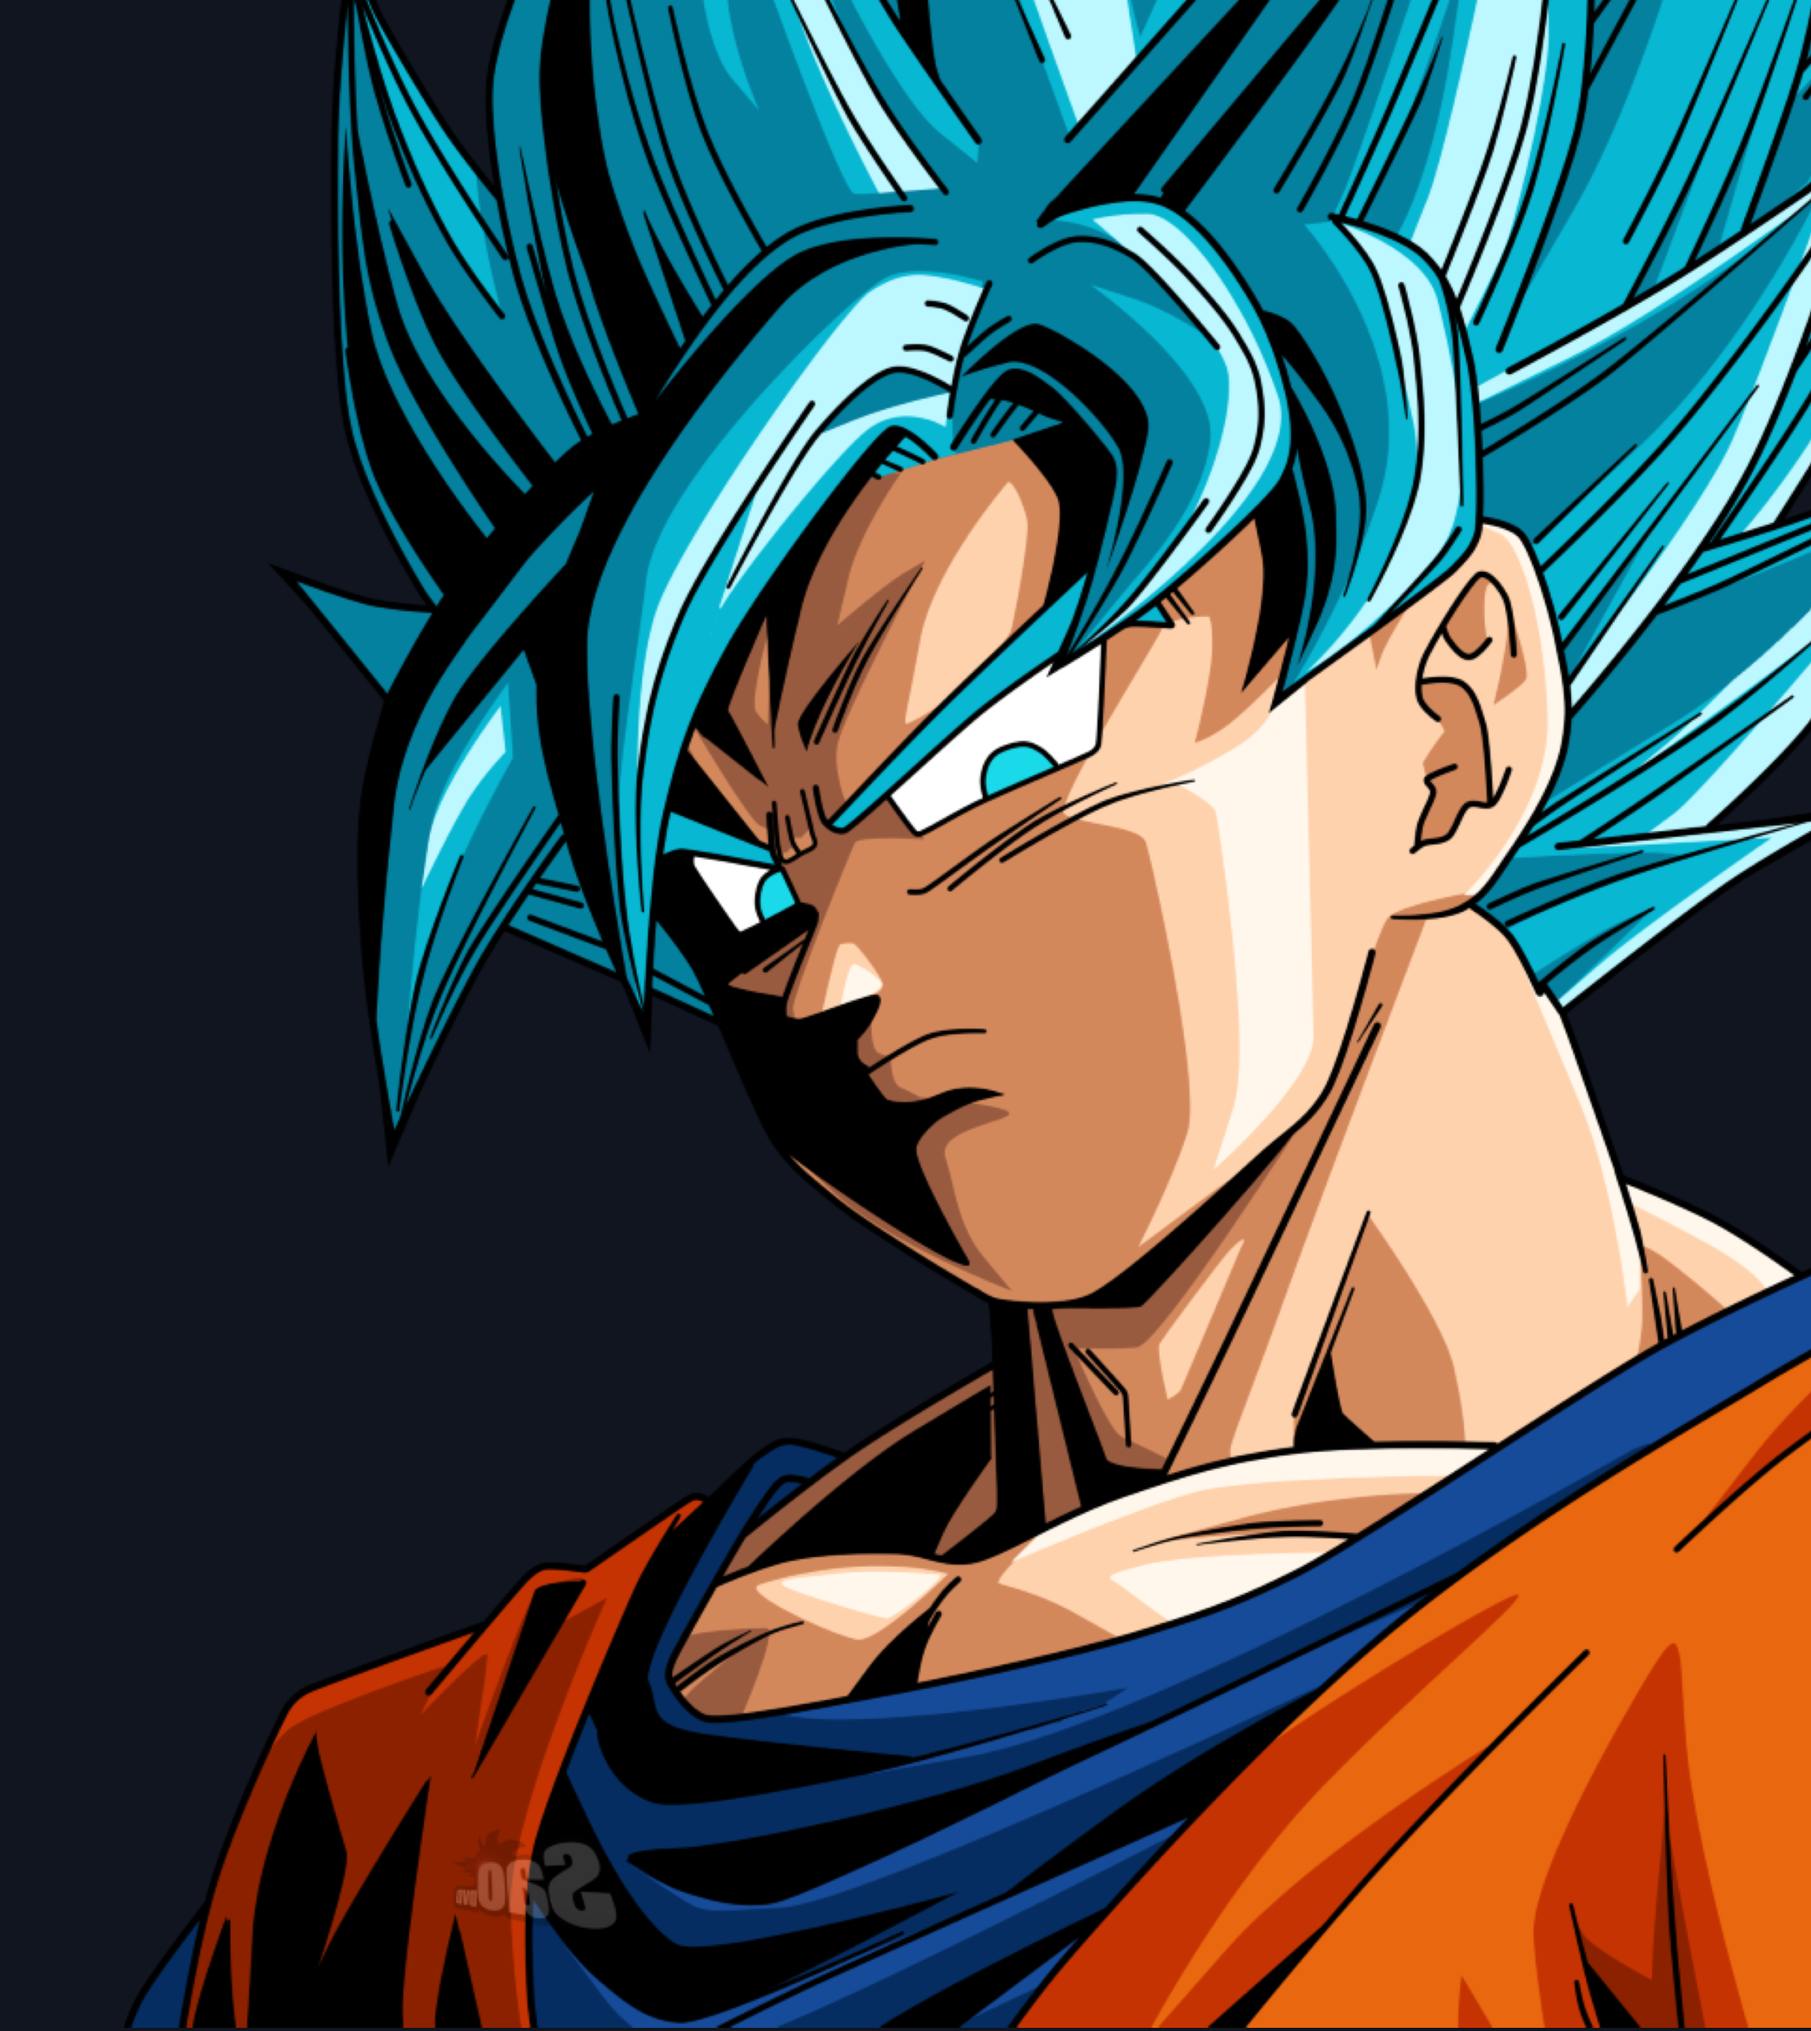
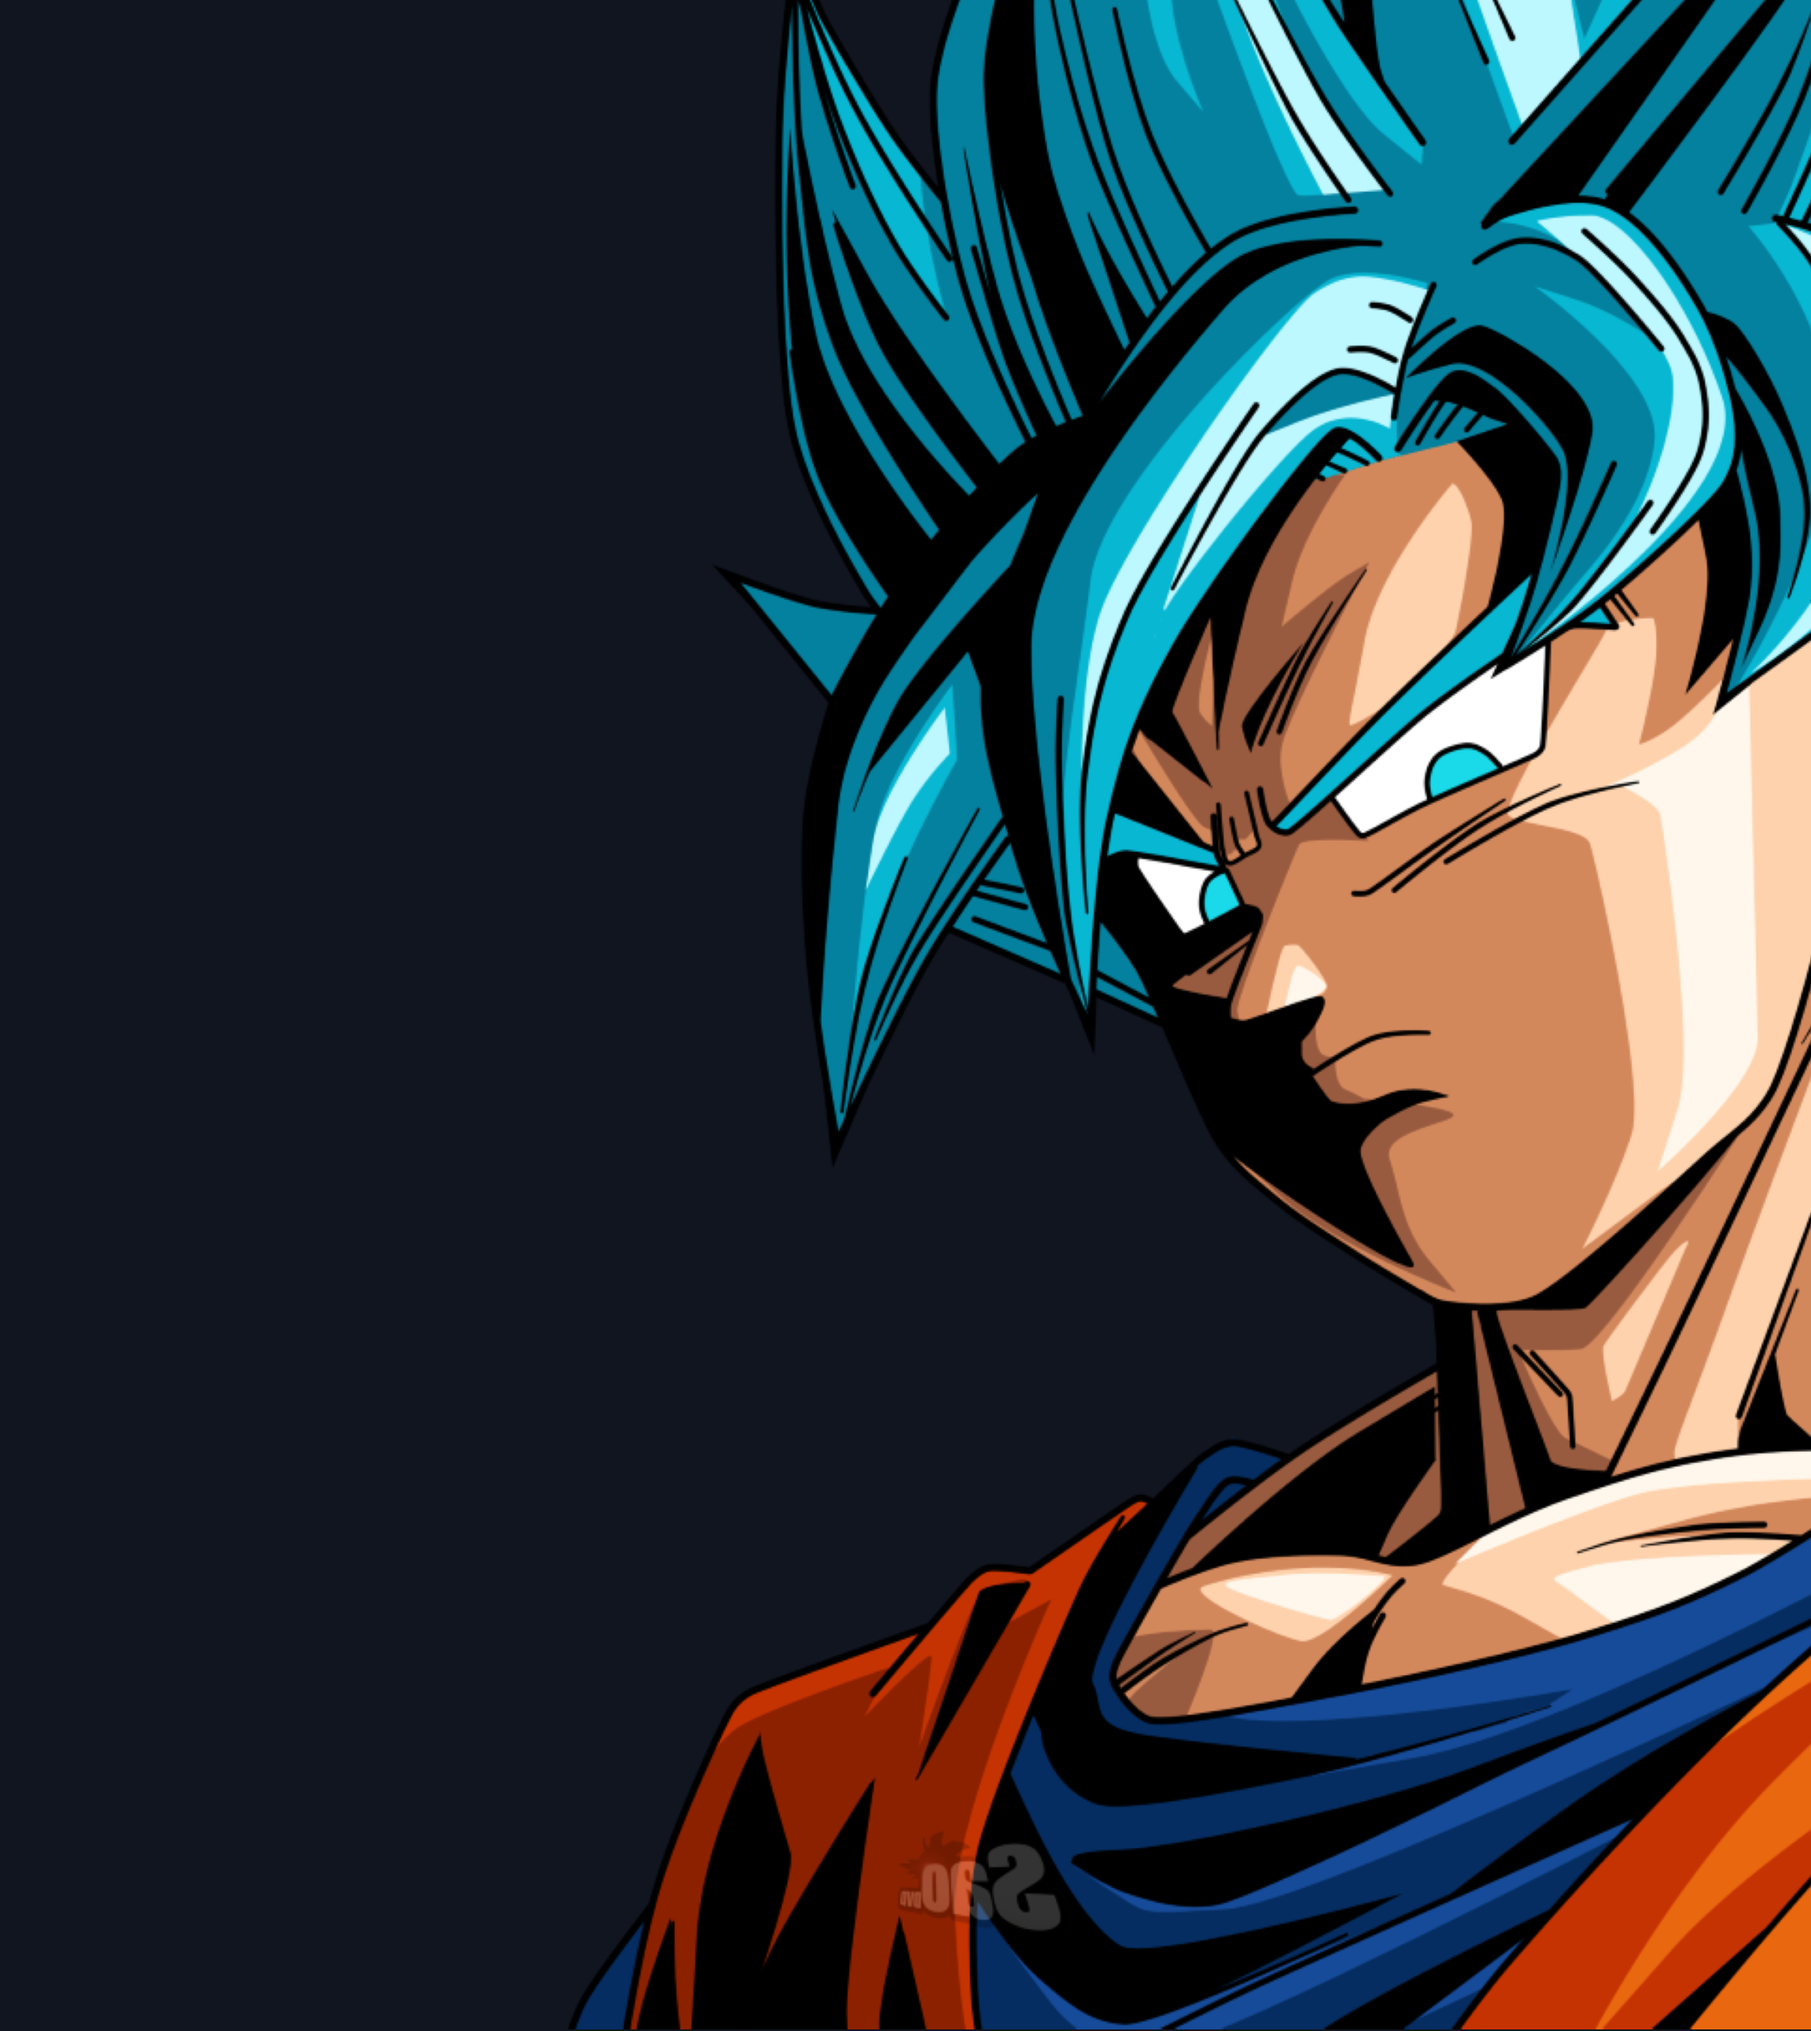
mobile

diff --git a/index.html b/index.html
@@ -6,7 +6,7 @@
     <meta name="viewport" content="width=device-width, initial-scale=1.0">
     <title>My Portfolio</title>
     <link rel="stylesheet" href="style.css">
-    <link rel="icon" href="portfolio.png">
+    <link rel="icon" href="cv.png">
     <script src="https://code.jquery.com/jquery-3.6.1.min.js"></script>
     <script src="https://kit.fontawesome.com/30b482bc56.js" crossorigin="anonymous"></script>
 </head>
@@ -18,7 +18,7 @@
                 <ul id="sidemenu">
                     <li><a href="#top">Home</a></li>
                     <li><a href="#about">About</a></li>
-                    <li><a href="#">Education</a></li>
+                    <li><a href="#education">Education</a></li>
                     <li><a href="#">Interests</a></li>
                     <li><a href="#contact">Contact</a></li>
                     <i class="fa-solid fa-xmark" onclick="closemenu()"></i>
@@ -98,12 +98,22 @@
             </div>    
         </div>
     </div>
-    <!-------------- contact --------------->
+    <!------------------------------------------- education -------------------------------------------->
+    <div id="education">
+        <div class="container">
+            <div class="row">
+                <div class="edu-col-1">
+                    <h1 class="sub-header">Education</h1>
+                </div>
+            </div>
+        </div>
+    </div>
+    <!-------------------------------------------- contact ---------------------------------------------->
     <div id="contact">
         <div class="container">
             <div class="row">
                 <div class="col-1">
-                    <h1 class="sub-header"></i>Contact Me</h1>
+                    <h1 class="sub-header">Contact Me</h1>
                     <p><i class="fa-solid fa-square-envelope"></i> arghyahazra137@gmail.com</p>
                     <p><i class="fa-solid fa-phone"></i> 7001620233</p>
                     <div class="social-icons">
@@ -119,7 +129,7 @@
                         <input type="email" class='Email' name="Email" placeholder="Your Email" required>
                         <textarea name="Message" class='Review' rows="6" placeholder="Your Review"></textarea>
                         <button type="submit" class="btn btn2">Submit</button>
-                        <button type="reset" class="btn btn2">Reset</button> 
+                        <button type="reset" class="btn btn3">Reset</button> 
                     </form>
                     <span id="msg"></span>
                 </div>

diff --git a/style.css b/style.css
@@ -171,6 +171,15 @@ nav ul li a:hover::after{
     color: #fff;
     text-decoration: none;
 }
+/* -------- Education -------- */
+#education{
+    padding: 80px 0;
+}
+.edu-col-1{
+    flex-basis: 35%;
+    margin-top: 20%;
+    margin-left: 25px;
+}
 /* -------- Contact --------- */
 .col-1{
     flex-basis: 35%;
@@ -214,13 +223,16 @@ nav ul li a:hover::after{
     text-decoration: none;
     color: white;
     transition: background 0.3s;
-
 }
 .btn:hover{
     background: #ef6817;
 }
 .btn.btn2{
     background: #ef6817;
+}
+.btn.btn3{
+    background: #ef6817;
+    padding: 14px 53px;
 }
 .col-2 form{
     width: 100%;
@@ -238,6 +250,12 @@ form input, form textarea{
 }
 form btn2{
     padding: 14px 60px;
+    font-size: 18px;
+    margin-top: 20px;
+    cursor: pointer;
+}
+form btn3{
+    padding: 14px 64px;
     font-size: 18px;
     margin-top: 20px;
     cursor: pointer;
@@ -260,17 +278,26 @@ nav .fa-solid{
 
 @media only screen and (max-width: 500px){
     #top{
-        background-image: url("GOKU_mob.png");
+        background-image: url("xx2.png");
+        background-size: cover;
+        background-position: right;
     }
     .logo{
+        width: 40%;
+        margin-left: 0;
+        padding-left: 0;
         padding-right: 45%;
     }
     .top-text{
-        margin-top: 70%;
-        font-size: 16px;
+        margin-left: 20px;
+        margin-top: 110%;
+        font-size: 100%;
     }
     .top-text h1{
-        font-size: 30px;
+        font-size: 187.5%;
+    }
+    .top-text p{
+        font-size: 150%;
     }
     nav .fa-solid{
         display: block;
@@ -331,6 +358,9 @@ nav .fa-solid{
     .col-1, .col-2{
         flex-basis: 100%;
     }
+    .col-1{
+        margin-left: 10%;
+    }
     .col-1 h1{
         margin-bottom: 30px;
     }
@@ -342,7 +372,7 @@ nav .fa-solid{
         margin-left: 10px;
     }
     .btn{
-        margin-left: 20%;
+        margin-left: 15%;
     }
     .Name{
         margin-left: 60px;
@@ -354,7 +384,13 @@ nav .fa-solid{
         margin-left: 60px;
     }
     .btn.btn2{
-        margin-left: 40px;
+        margin-top: 10%;
+        margin-left: 30%;
+        margin-bottom: 5%;
+    }
+    .btn.btn3{
+        margin-top: 0;
+        margin-left: 30%;
     }
     .copyright{
         font-size: 12px;
